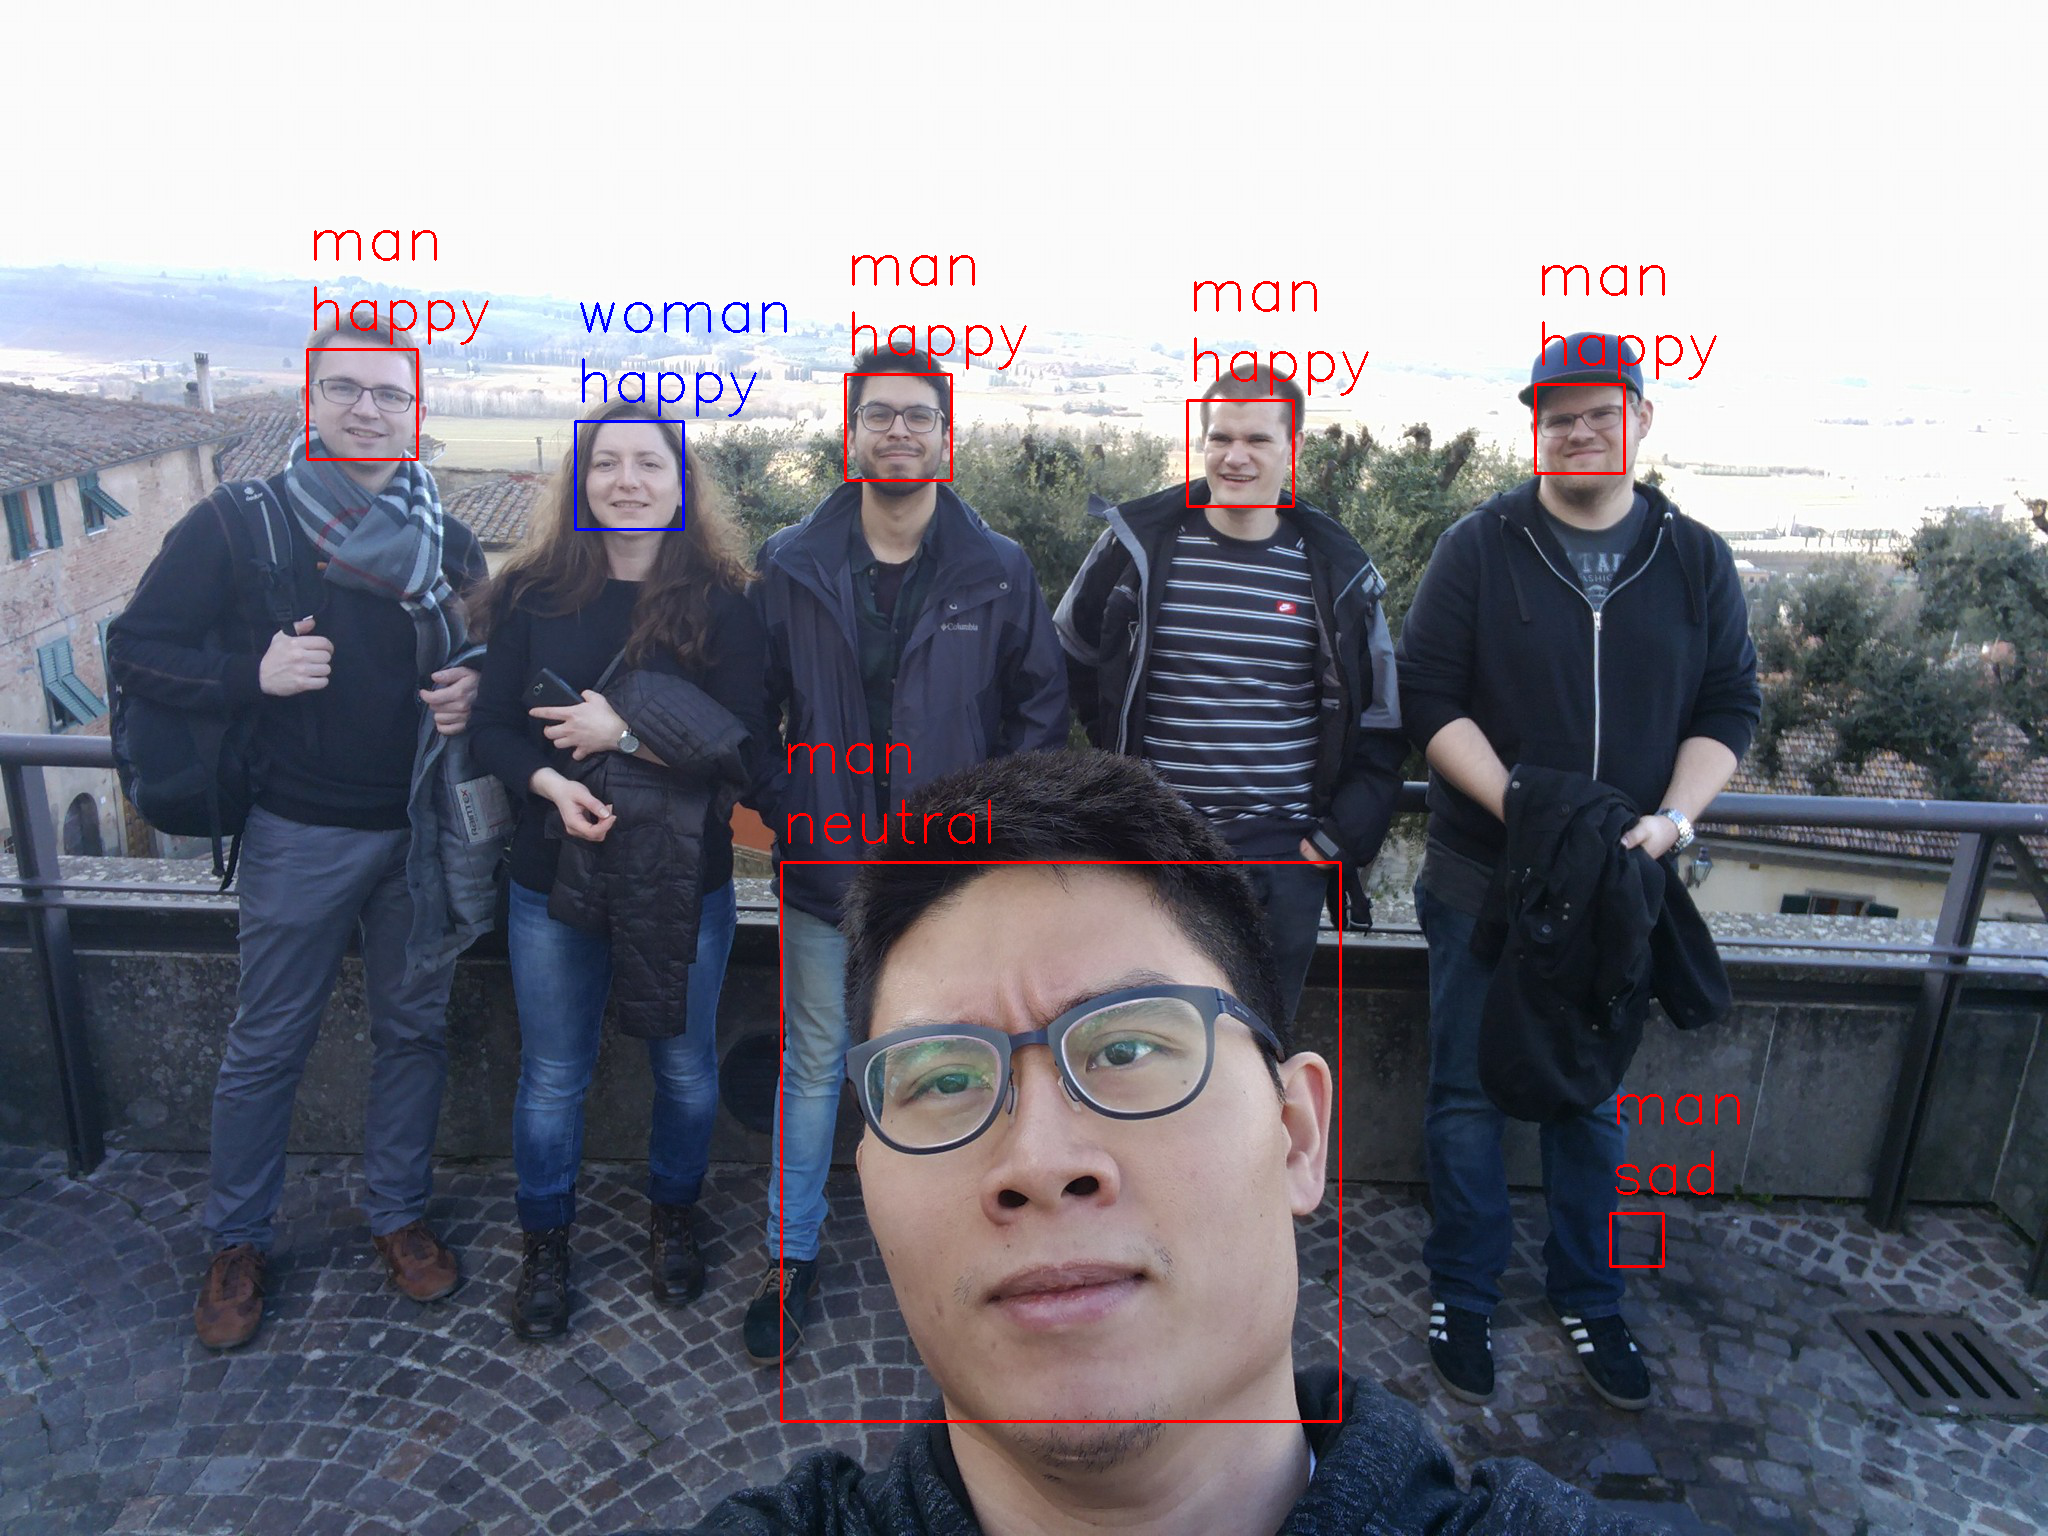
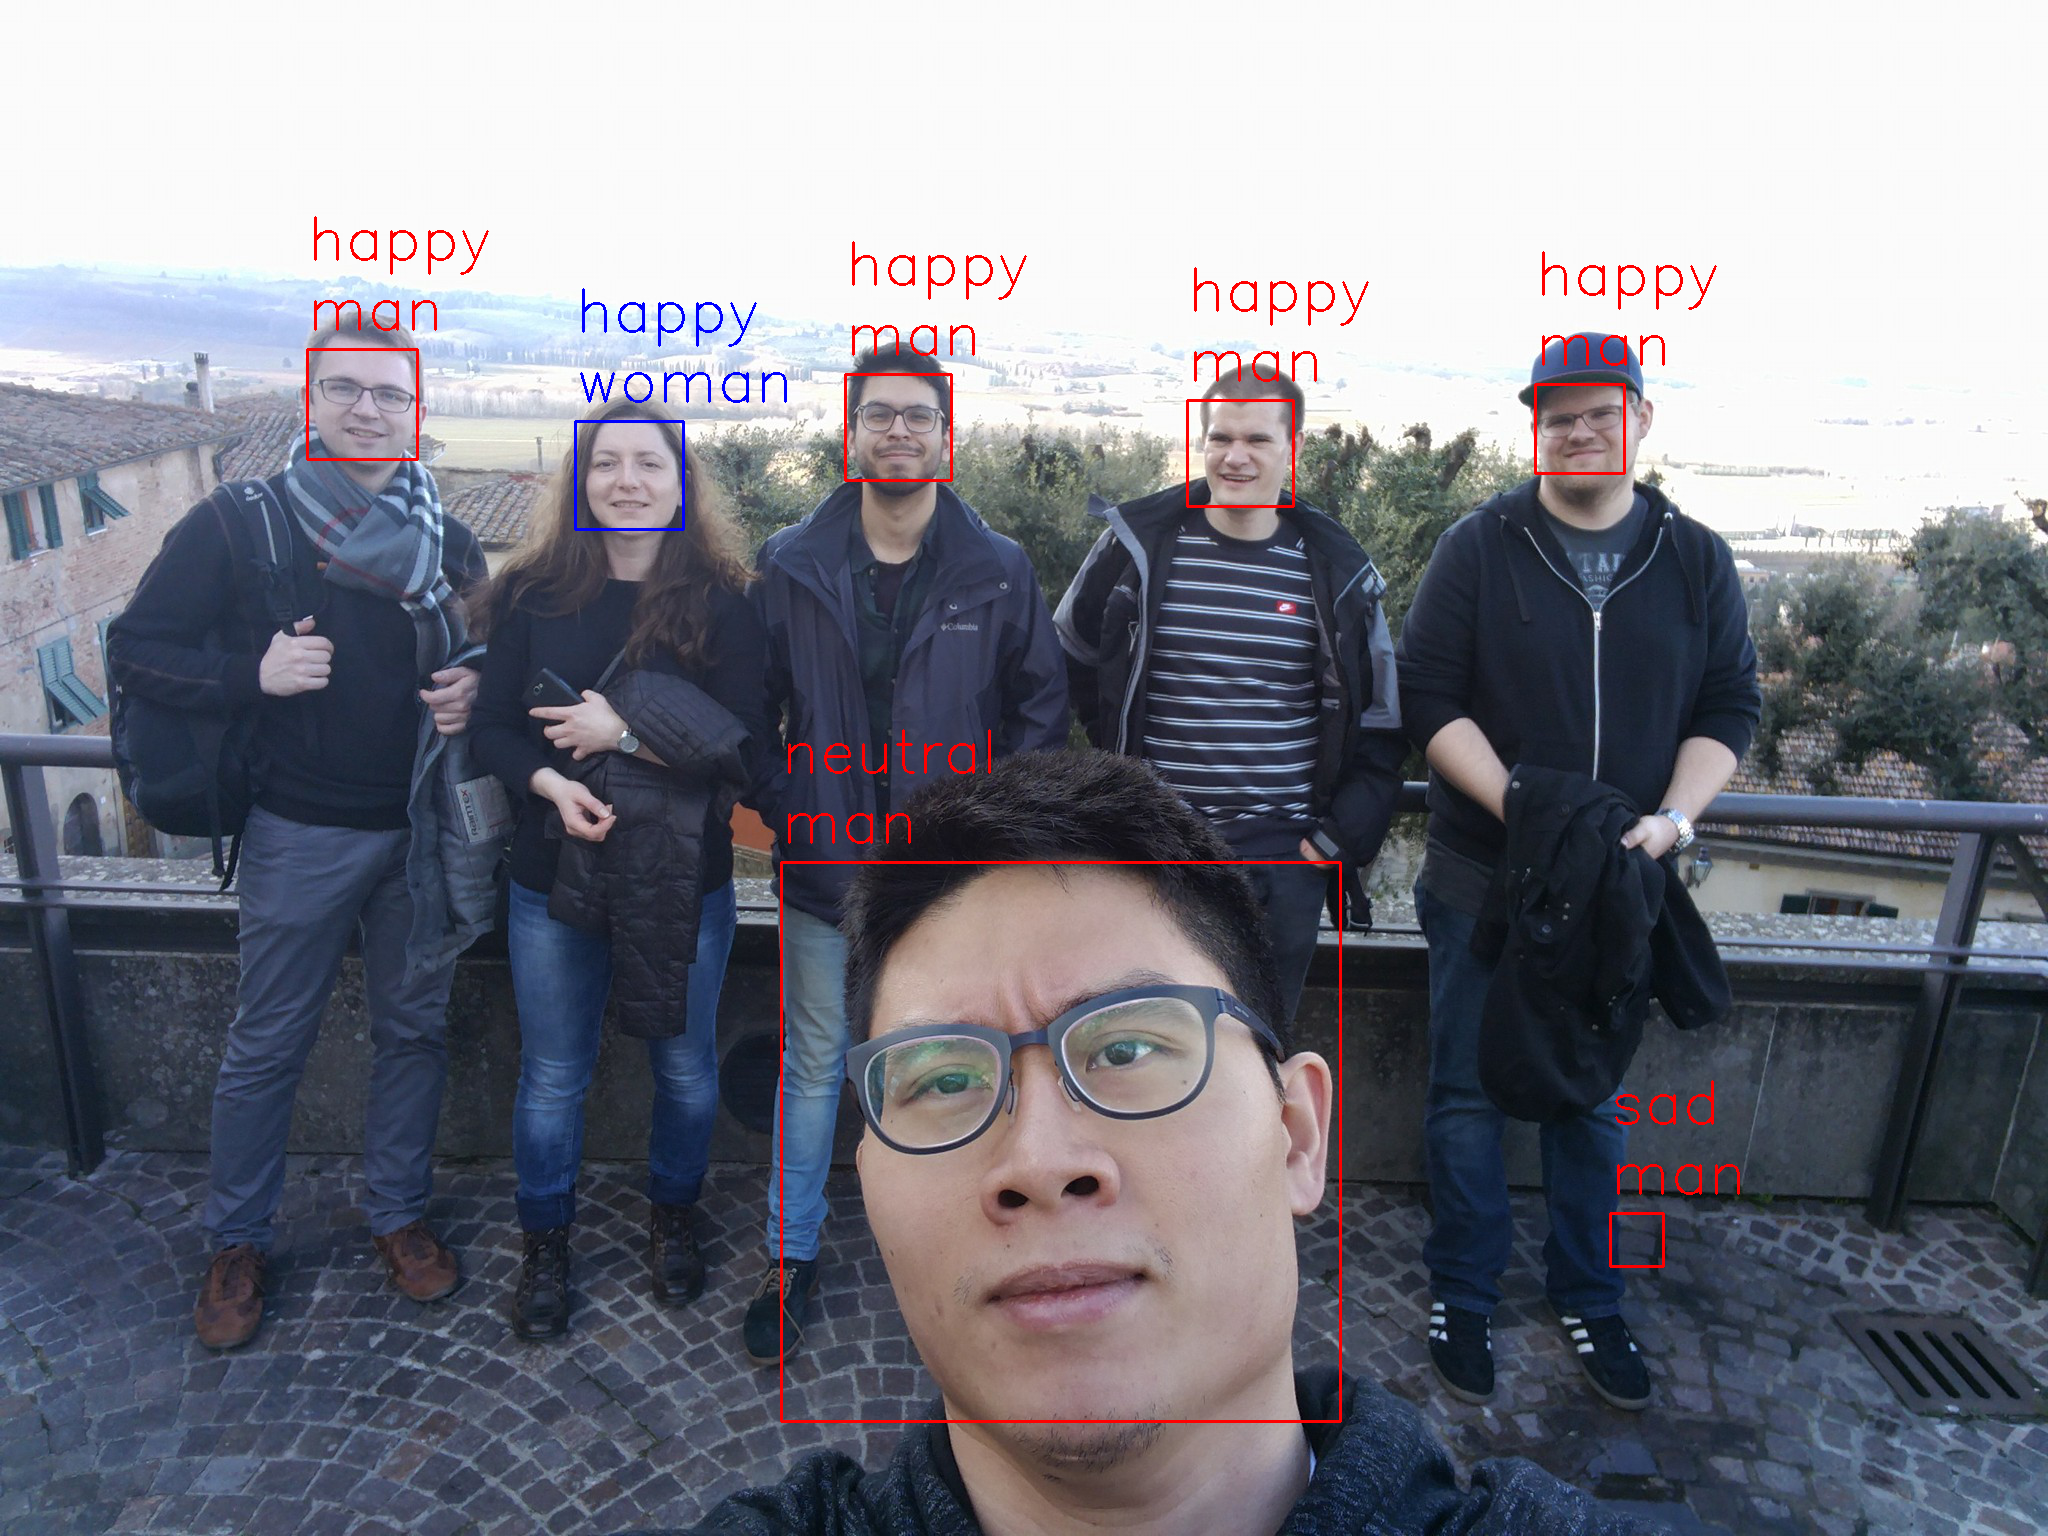
Added v2 for video test and fixed bug with preprocessing function

diff --git a/src/video_test.py b/src/video_test.py
@@ -1,92 +1,102 @@
+from statistics import mode
+
 import cv2
 from keras.models import load_model
 import numpy as np
-from statistics import mode
-from utils import preprocess_input
-from utils import get_labels
 
-# parameters
+from utils.datasets import get_labels
+from utils.inference import detect_faces
+from utils.inference import draw_text
+from utils.inference import draw_bounding_box
+from utils.inference import apply_offsets
+from utils.inference import load_detection_model
+from utils.preprocessor import preprocess_input
+
+# parameters for loading data and images 
+#image_path = '../images/test_image.jpg'
 detection_model_path = '../trained_models/detection_models/haarcascade_frontalface_default.xml'
 emotion_model_path = '../trained_models/emotion_models/simple_CNN.530-0.65.hdf5'
 gender_model_path = '../trained_models/gender_models/simple_CNN.81-0.96.hdf5'
 emotion_labels = get_labels('fer2013')
 gender_labels = get_labels('imdb')
+font = cv2.FONT_HERSHEY_SIMPLEX
+
+# hyper-parameters for bounding boxes shape
 frame_window = 10
-x_offset_emotion = 20
-y_offset_emotion = 40
-x_offset = 30
-y_offset = 60
+gender_offsets = (30, 60)
+emotion_offsets = (20, 40)
 
 # loading models
-face_detection = cv2.CascadeClassifier(detection_model_path)
+face_detection = load_detection_model(detection_model_path)
 emotion_classifier = load_model(emotion_model_path)
 gender_classifier = load_model(gender_model_path)
 
-# video 
-video_capture = cv2.VideoCapture(0)
-font = cv2.FONT_HERSHEY_SIMPLEX
+# getting input model shapes for inference
+emotion_target_size = emotion_classifier.input_shape[1:3]
+gender_target_size = gender_classifier.input_shape[1:3]
+
+# starting lists for calculating modes
+gender_window = []
+emotion_window = []
+
+# starting video streaming
 cv2.namedWindow('window_frame')
-emotion_label_window = []
-gender_label_window = []
+video_capture = cv2.VideoCapture(0)
 while True:
-    _, frame = video_capture.read()
-    gray = cv2.cvtColor(frame, cv2.COLOR_BGR2GRAY)
-    frame = cv2.cvtColor(frame, cv2.COLOR_BGR2RGB)
-    faces = face_detection.detectMultiScale(gray, 1.3, 5)
-    for (x,y,w,h) in faces:
-        face = frame[(y - y_offset):(y + h + y_offset),
-                    (x - x_offset):(x + w + x_offset)]
+    bgr_image = video_capture.read()[1]
+    gray_image = cv2.cvtColor(bgr_image, cv2.COLOR_BGR2GRAY)
+    rgb_image = cv2.cvtColor(bgr_image, cv2.COLOR_BGR2RGB)
+    faces = detect_faces(face_detection, gray_image)
+    if faces is not None:
+        for face_coordinates in faces:
 
-        gray_face = gray[(y - y_offset_emotion):(y + h + y_offset_emotion),
-                        (x - x_offset_emotion):(x + w + x_offset_emotion)]
-        try:
-            face = cv2.resize(face, (48, 48))
-            gray_face = cv2.resize(gray_face, (48, 48))
-        except:
-            continue
-        face = np.expand_dims(face, 0)
-        face = preprocess_input(face)
-        gender_label_arg = np.argmax(gender_classifier.predict(face))
-        gender = gender_labels[gender_label_arg]
-        gender_label_window.append(gender)
+            x1, x2, y1, y2 = apply_offsets(face_coordinates, gender_offsets)
+            rgb_face = rgb_image[y1:y2, x1:x2]
 
-        gray_face = preprocess_input(gray_face)
-        gray_face = np.expand_dims(gray_face, 0)
-        gray_face = np.expand_dims(gray_face, -1)
-        emotion_label_arg = np.argmax(emotion_classifier.predict(gray_face))
-        emotion = emotion_labels[emotion_label_arg]
-        emotion_label_window.append(emotion)
+            x1, x2, y1, y2 = apply_offsets(face_coordinates, emotion_offsets)
+            gray_face = gray_image[y1:y2, x1:x2]
+            try:
+                rgb_face = cv2.resize(rgb_face, (gender_target_size))
+                gray_face = cv2.resize(gray_face, (emotion_target_size))
+            except:
+                continue
+            rgb_face = np.expand_dims(rgb_face, 0)
+            rgb_face = preprocess_input(rgb_face, False)
+            gender_prediction = gender_classifier.predict(rgb_face)
+            gender_label_arg = np.argmax(gender_prediction)
+            gender_text = gender_labels[gender_label_arg]
+            gender_window.append(gender_text)
 
-        if len(gender_label_window) >= frame_window:
-            emotion_label_window.pop(0)
-            gender_label_window.pop(0)
-        try:
-            emotion_mode = mode(emotion_label_window)
-            gender_mode = mode(gender_label_window)
-        except:
-            continue
-        if gender_mode == gender_labels[0]:
-            gender_color = (255, 0, 0)
-        else:
-            gender_color = (0, 255, 0)
+            gray_face = preprocess_input(gray_face, False)
+            gray_face = np.expand_dims(gray_face, 0)
+            gray_face = np.expand_dims(gray_face, -1)
+            emotion_label_arg = np.argmax(emotion_classifier.predict(gray_face))
+            emotion_text = emotion_labels[emotion_label_arg]
+            emotion_window.append(emotion_text)
 
-        #cv2.rectangle(frame, (x - x_offset, y - y_offset),
-                    #(x + w + x_offset, y + h + y_offset),
-        cv2.rectangle(frame, (x, y), (x + w, y + h), gender_color, 2)
-        cv2.putText(frame, emotion_mode, (x, y - 30), font,
-                        .7, gender_color, 1, cv2.LINE_AA)
-        cv2.putText(frame, gender_mode, (x + 90, y - 30), font,
-                        .7, gender_color, 1, cv2.LINE_AA)
+            if len(gender_window) > frame_window:
+                emotion_window.pop(0)
+                gender_window.pop(0)
+            try:
+                emotion_mode = mode(emotion_window)
+                gender_mode = mode(gender_window)
+            except:
+                continue
 
-    try:
-        frame = cv2.cvtColor(frame, cv2.COLOR_RGB2BGR)
-        cv2.imshow('window_frame', frame)
-    except:
-        continue
+            if gender_text == gender_labels[0]:
+                color = (0, 0, 255)
+            else:
+                color = (255, 0, 0)
 
+            draw_bounding_box(face_coordinates, rgb_image, color)
+            draw_text(face_coordinates, rgb_image, gender_mode,
+                                            color, 0, -20, 1, 1)
+            draw_text(face_coordinates, rgb_image, emotion_mode,
+                                            color, 0, -45, 1, 1)
+
+    bgr_image = cv2.cvtColor(rgb_image, cv2.COLOR_RGB2BGR)
+    cv2.imshow('window_frame', bgr_image)
     if cv2.waitKey(1) & 0xFF == ord('q'):
         break
 
-video_capture.release()
-cv2.destroyAllWindows()
 

diff --git a/src/image_test.py b/src/image_test.py
@@ -55,7 +55,7 @@ for face_coordinates in faces:
     gray_face = cv2.resize(gray_face, (emotion_target_size))
 
     rgb_face = np.expand_dims(rgb_face, 0)
-    egb_face = preprocess_input(rgb_face, False)
+    rgb_face = preprocess_input(rgb_face, False)
     gender_prediction = gender_classifier.predict(rgb_face)
     gender_label_arg = np.argmax(gender_prediction)
     gender_text = gender_labels[gender_label_arg]
@@ -73,8 +73,8 @@ for face_coordinates in faces:
         color = (255, 0, 0)
 
     draw_bounding_box(face_coordinates, rgb_image, color )
-    draw_text(face_coordinates, rgb_image, gender_text, color, 0 ,-90)
-    draw_text(face_coordinates, rgb_image, emotion_text, color,0, -20)
+    draw_text(face_coordinates, rgb_image, gender_text, color, 0 ,-20)
+    draw_text(face_coordinates, rgb_image, emotion_text, color,0, -90)
 
 bgr_image = cv2.cvtColor(rgb_image, cv2.COLOR_RGB2BGR)
 cv2.imwrite('../images/predicted_test_image.png', bgr_image)
